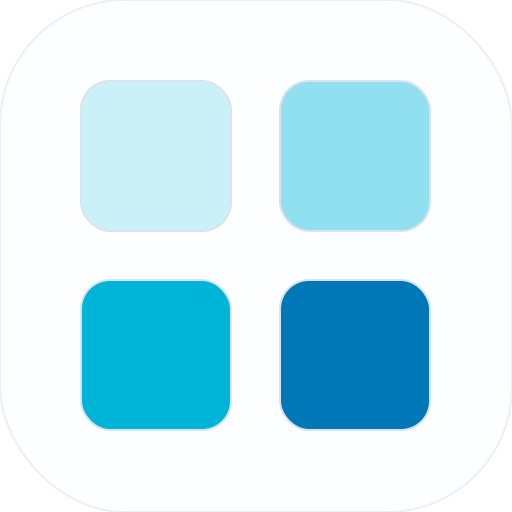
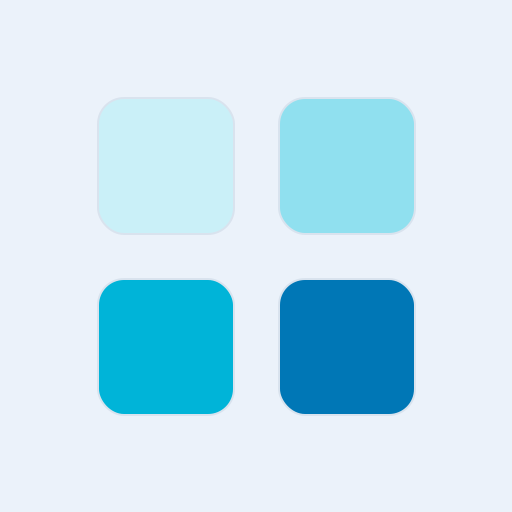
Add files via upload

diff --git a/index.html b/index.html
@@ -6,7 +6,10 @@
 <title>My Tiles Calculator - Ultimate Edition</title>
 <link rel="manifest" href="manifest.json" />
 <meta name="theme-color" content="#0077B6" />
-<link rel="icon" href="assets/icon-192.png" />
+<!-- Browser tab favicon: glass/transparent effect (browsers render this against the tab bar, so transparency shows correctly) -->
+<link rel="icon" type="image/png" sizes="32x32" href="assets/favicon-glass-32.png" />
+<link rel="icon" type="image/png" sizes="192x192" href="assets/favicon-glass.png" />
+<!-- Home-screen icon (iOS "Add to Home Screen"): solid/opaque — iOS fills transparent areas with black, so this must stay solid -->
 <link rel="apple-touch-icon" href="assets/icon-192.png" />
 <style>
 /* Fonts loaded locally from /assets/fonts so the app works fully offline */

diff --git a/sw.js b/sw.js
@@ -1,7 +1,7 @@
 // Simple offline-first service worker for My Tiles Calculator.
 // Bump this version string whenever the app files change, so users
 // automatically get the update next time they open the app online.
-const CACHE_NAME = 'tiles-calculator-v2';
+const CACHE_NAME = 'tiles-calculator-v3';
 
 const APP_SHELL = [
   './',
@@ -10,6 +10,8 @@ const APP_SHELL = [
   './assets/icon-192.png',
   './assets/icon-512.png',
   './assets/icon-maskable-512.png',
+  './assets/favicon-glass.png',
+  './assets/favicon-glass-32.png',
   './assets/fonts/inter-400.woff2',
   './assets/fonts/inter-500.woff2',
   './assets/fonts/inter-600.woff2',
